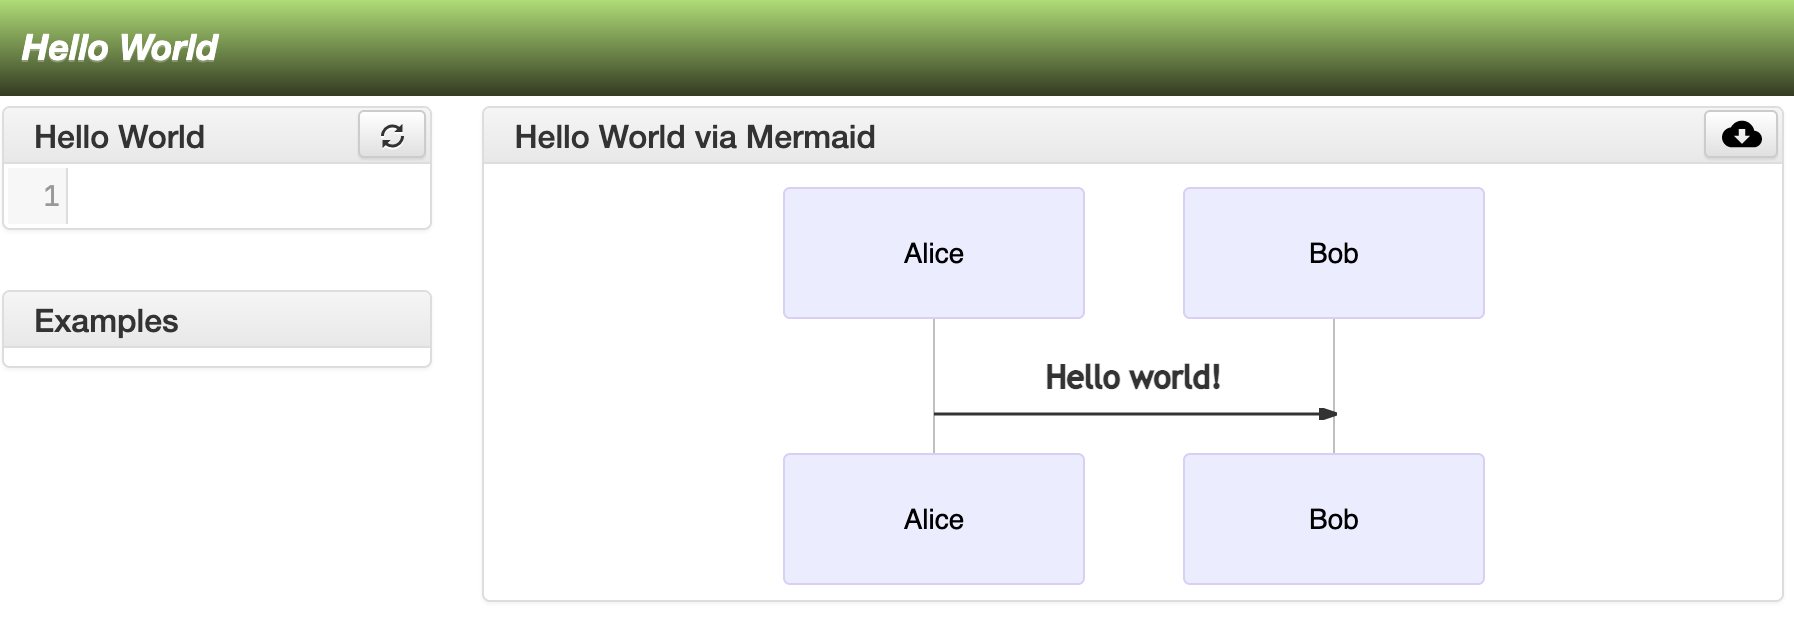
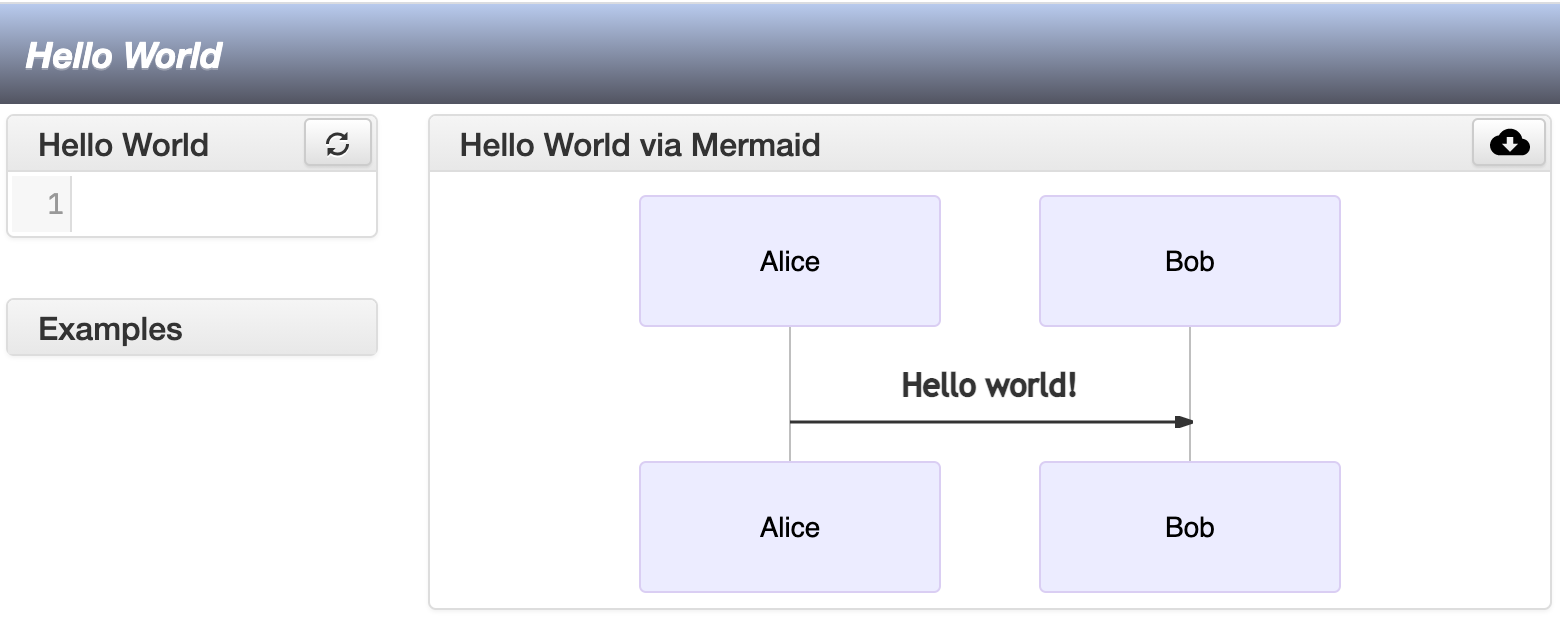
update figure

diff --git a/src/main/g8/$tool_path$/css/style.css b/src/main/g8/$tool_path$/css/style.css
@@ -95,9 +95,9 @@
 
 .navbar-caos {
     background: rgb(52,59,34);
-    background: -moz-linear-gradient(0deg, rgba(52,59,34,1) 0%, rgba(180,227,122,1) 100%);
-    background: -webkit-linear-gradient(0deg, rgba(52,59,34,1) 0%, rgba(180,227,122,1) 100%);
-    background: linear-gradient(0deg, rgba(52,59,34,1) 0%, rgba(180,227,122,1) 100%);
+    background: -moz-linear-gradient(to top, rgba(82, 84, 97, 1), rgba(184, 202, 237, 1));
+    background: -webkit-llinear-gradient(to top, rgba(82, 84, 97, 1), rgba(184, 202, 237, 1));
+    background: linear-gradient(to top, rgba(82, 84, 97, 1), rgba(184, 202, 237, 1));
     filter: progid:DXImageTransform.Microsoft.gradient(startColorstr="#343b22",endColorstr="#b4e37a",GradientType=1);
     filter: progid:DXImageTransform.Microsoft.gradient(enabled=false);
     border-radius: 0px;
